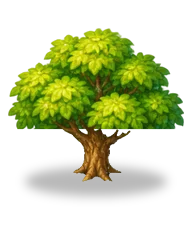
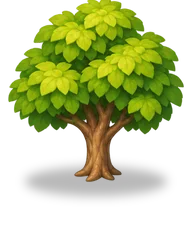
EKOfarm v19

diff --git a/EKOfarm/public/js/assets.js b/EKOfarm/public/js/assets.js
@@ -1,2 +1,2 @@
 // Vygenerováno nástrojem tools/assets.py – seznam grafiky ve hře (public/img/<druh>/<jméno>.webp).
-export const ASSETS = {"b": ["cukrovar", "domek_a", "domek_b", "domek_c", "dzusarna", "fontana", "jablon", "ker", "konzervarna", "kravin", "krmivarna", "kurnik", "kvetiny", "lavicka", "marmeladarna", "medarna", "mlekarna", "mlyn", "olejna", "ovcin", "pekarna", "prasecak", "prodejna", "rybarna", "rybnik", "semenarna", "sklad_1", "sklad_10", "sklad_2", "sklad_3", "sklad_4", "sklad_5", "sklad_6", "sklad_7", "sklad_8", "sklad_9", "skolka", "stanek", "statek_1", "statek_10", "statek_2", "statek_3", "statek_4", "statek_5", "statek_6", "statek_7", "statek_8", "statek_9", "stodola", "textilka", "trziste", "uzenarstvi", "vcelin"], "c": ["beet_0", "beet_1", "beet_2", "carrot_0", "carrot_1", "carrot_2", "cesnek_0", "cesnek_1", "cesnek_2", "cibule_0", "cibule_1", "cibule_2", "corn_0", "corn_1", "corn_2", "dyne_0", "dyne_1", "dyne_2", "hrach_0", "hrach_1", "hrach_2", "jahody_0", "jahody_1", "jahody_2", "meloun_0", "meloun_1", "meloun_2", "okurka_0", "okurka_1", "okurka_2", "paprika_0", "paprika_1", "paprika_2", "potato_0", "potato_1", "potato_2", "rajce_0", "rajce_1", "rajce_2", "redkvicka_0", "redkvicka_1", "redkvicka_2", "repka_0", "repka_1", "repka_2", "salat_0", "salat_1", "salat_2", "soy_0", "soy_1", "soy_2", "sun_0", "sun_1", "sun_2", "wheat_0", "wheat_1", "wheat_2", "zeli_0", "zeli_1", "zeli_2"], "i": ["angrest", "barn", "beet", "bench", "blossom", "boruvky", "broskev", "broskve_sklo", "buchty", "bush", "candat", "candat_maslo", "carrot", "cesnek", "chleb", "cibule", "combine", "corn", "cow", "cukr", "deka", "dyne", "dynovka", "dynovy_olej", "dzem_jahoda", "dzem_malina", "dzem_merunka", "dzus_hruska", "dzus_jablko", "dzus_mrkev", "dzus_visne", "farmer", "flowers", "fountain", "garage", "helper", "hen", "hive", "house", "hrach", "hrachovka", "hrozny", "hruska", "jablko", "jahody", "kapr", "kecup", "klobasa", "klubko", "kolac", "kolecko", "kompot", "krmivo_kravy", "krmivo_ovce", "krmivo_prasata", "krmivo_slepice", "kysane_zeli", "lecho", "lin", "lis", "maliny", "market", "marmelada", "maslo", "maso", "med", "medovnik", "meloun", "merunka", "mleko", "most", "motyka", "mouka", "muffiny", "napoj", "navnada", "okoun", "okurka", "okurky", "olej", "orech", "orechovy_kolac", "paprika", "peceny_lin", "pernik", "pig", "plast", "plot", "plotice", "pluh", "pond", "potato", "povidla", "prazena_seminka", "pstruh", "rajce", "redkvicka", "repka", "rybi_polevka", "rybi_prsty", "rybiz", "s_beet", "s_carrot", "s_cesnek", "s_cibule", "s_corn", "s_dyne", "s_hrach", "s_jahody", "s_meloun", "s_okurka", "s_paprika", "s_potato", "s_rajce", "s_redkvicka", "s_repka", "s_salat", "s_soy", "s_sun", "s_wheat", "s_zeli", "salat", "salat_mix", "secka", "seminkovy_chleb", "sheep", "shop", "sl_olej", "slama", "smazeny_kapr", "smetana", "soy", "stall", "stika", "stika_cibule", "sumcovy_gulas", "sumec", "sun", "svestka", "svetr", "svicka", "syr", "tractor", "tree", "tresne", "tresnovy_kolac", "udice", "udice2", "uzene", "uzeny_pstruh", "vejce", "visne", "vlna", "wheat", "z_angrest", "z_boruvky", "z_broskev", "z_hrusen", "z_jablon", "z_maliny", "z_merunka", "z_orech", "z_reva", "z_rybiz", "z_svestka", "z_tresen", "z_visen", "zeli"], "m": ["brazda120_l", "brazda120_r", "brazda60_l", "brazda60_r", "klas4_l", "klas4_r", "klas8_l", "klas8_r", "lis_l", "lis_r", "pluh_l", "pluh_r", "secka_l", "secka_r"], "p": ["farmar_l", "farmar_r", "pomocnik_l", "pomocnik_r"], "s": ["angrest_dead", "angrest_grow", "angrest_ready", "boruvky_dead", "boruvky_grow", "boruvky_ready", "broskev_dead", "broskev_grow", "broskev_ready", "hrusen_dead", "hrusen_grow", "hrusen_ready", "jablon_dead", "jablon_grow", "jablon_ready", "les_a", "les_b", "les_c", "maliny_dead", "maliny_grow", "maliny_ready", "merunka_dead", "merunka_grow", "merunka_ready", "orech_dead", "orech_grow", "orech_ready", "reva_dead", "reva_grow", "reva_ready", "rybiz_dead", "rybiz_grow", "rybiz_ready", "svestka_dead", "svestka_grow", "svestka_ready", "tresen_dead", "tresen_grow", "tresen_ready", "visen_dead", "visen_grow", "visen_ready"], "t": ["cedule", "cesta_a", "cesta_b", "dlazba", "louka_a", "louka_b", "plot_ne", "plot_se", "pole", "pole_osete", "trava_a", "trava_b"], "z": ["krava", "ovce", "prase", "slepice"]};
+export const ASSETS = {"b": ["cukrovar", "domek_a", "domek_b", "domek_c", "dzusarna", "fontana", "jablon", "ker", "konzervarna", "kravin", "krmivarna", "kurnik", "kvetiny", "lavicka", "marmeladarna", "medarna", "mlekarna", "mlyn", "olejna", "ovcin", "pekarna", "prasecak", "prodejna", "rybarna", "rybnik", "semenarna", "sklad_1", "sklad_10", "sklad_2", "sklad_3", "sklad_4", "sklad_5", "sklad_6", "sklad_7", "sklad_8", "sklad_9", "skolka", "stanek", "statek_1", "statek_10", "statek_2", "statek_3", "statek_4", "statek_5", "statek_6", "statek_7", "statek_8", "statek_9", "stodola", "textilka", "trziste", "uzenarstvi", "vcelin"], "c": ["beet_0", "beet_1", "beet_2", "carrot_0", "carrot_1", "carrot_2", "cesnek_0", "cesnek_1", "cesnek_2", "cibule_0", "cibule_1", "cibule_2", "corn_0", "corn_1", "corn_2", "dyne_0", "dyne_1", "dyne_2", "hrach_0", "hrach_1", "hrach_2", "jahody_0", "jahody_1", "jahody_2", "meloun_0", "meloun_1", "meloun_2", "okurka_0", "okurka_1", "okurka_2", "paprika_0", "paprika_1", "paprika_2", "potato_0", "potato_1", "potato_2", "rajce_0", "rajce_1", "rajce_2", "redkvicka_0", "redkvicka_1", "redkvicka_2", "repka_0", "repka_1", "repka_2", "salat_0", "salat_1", "salat_2", "soy_0", "soy_1", "soy_2", "sun_0", "sun_1", "sun_2", "wheat_0", "wheat_1", "wheat_2", "zeli_0", "zeli_1", "zeli_2"], "i": ["amur", "amur_gril", "angrest", "barn", "beet", "bench", "blossom", "bolen", "bolen_bylinky", "boruvky", "broskev", "broskve_sklo", "buchty", "bush", "candat", "candat_maslo", "carrot", "cejn", "cesnek", "chleb", "cibule", "combine", "corn", "cow", "cukr", "deka", "dyne", "dynovka", "dynovy_olej", "dzem_jahoda", "dzem_malina", "dzem_merunka", "dzus_hruska", "dzus_jablko", "dzus_mrkev", "dzus_visne", "farmer", "flowers", "fountain", "garage", "helper", "hen", "hive", "house", "hrach", "hrachovka", "hrozny", "hruska", "jablko", "jahody", "jeseter", "kapr", "karas", "kecup", "klobasa", "klubko", "kolac", "kolecko", "kompot", "krmivo_kravy", "krmivo_ovce", "krmivo_prasata", "krmivo_slepice", "kysane_zeli", "lecho", "lin", "lis", "maliny", "market", "marmelada", "maslo", "maso", "med", "medovnik", "meloun", "merunka", "mleko", "most", "motyka", "mouka", "muffiny", "napoj", "navnada", "okoun", "okurka", "okurky", "olej", "orech", "orechovy_kolac", "paprika", "peceny_lin", "pernik", "pig", "plast", "plot", "plotice", "pluh", "pond", "potato", "povidla", "prazena_seminka", "pstruh", "rajce", "redkvicka", "repka", "rybi_karbanatky", "rybi_polevka", "rybi_prsty", "rybiz", "s_beet", "s_carrot", "s_cesnek", "s_cibule", "s_corn", "s_dyne", "s_hrach", "s_jahody", "s_meloun", "s_okurka", "s_paprika", "s_potato", "s_rajce", "s_redkvicka", "s_repka", "s_salat", "s_soy", "s_sun", "s_wheat", "s_zeli", "salat", "salat_mix", "secka", "seminkovy_chleb", "sheep", "shop", "sl_olej", "slama", "smazeny_kapr", "smetana", "soy", "stall", "stika", "stika_cibule", "sumcovy_gulas", "sumec", "sun", "svestka", "svetr", "svicka", "syr", "tractor", "tree", "tresne", "tresnovy_kolac", "udice", "udice2", "uhor", "uzene", "uzeny_pstruh", "vejce", "visne", "vlna", "wheat", "z_angrest", "z_boruvky", "z_broskev", "z_hrusen", "z_jablon", "z_maliny", "z_merunka", "z_orech", "z_reva", "z_rybiz", "z_svestka", "z_tresen", "z_visen", "zeli"], "m": ["brazda120_l", "brazda120_r", "brazda60_l", "brazda60_r", "klas4_l", "klas4_r", "klas8_l", "klas8_r", "lis_l", "lis_r", "pluh_l", "pluh_r", "secka_l", "secka_r"], "p": ["farmar_l", "farmar_r", "pomocnik_l", "pomocnik_r"], "s": ["angrest_dead", "angrest_grow", "angrest_ready", "boruvky_dead", "boruvky_grow", "boruvky_ready", "broskev_dead", "broskev_grow", "broskev_ready", "hrusen_dead", "hrusen_grow", "hrusen_ready", "jablon_dead", "jablon_grow", "jablon_ready", "les_a", "les_b", "les_c", "maliny_dead", "maliny_grow", "maliny_ready", "merunka_dead", "merunka_grow", "merunka_ready", "orech_dead", "orech_grow", "orech_ready", "reva_dead", "reva_grow", "reva_ready", "rybiz_dead", "rybiz_grow", "rybiz_ready", "svestka_dead", "svestka_grow", "svestka_ready", "tresen_dead", "tresen_grow", "tresen_ready", "visen_dead", "visen_grow", "visen_ready"], "t": ["cedule", "cesta_a", "cesta_b", "dlazba", "louka_a", "louka_b", "plot_ne", "plot_se", "pole", "pole_osete", "trava_a", "trava_b"], "z": ["krava", "ovce", "prase", "slepice"]};

diff --git a/EKOfarm/public/js/icons.js b/EKOfarm/public/js/icons.js
@@ -1,6 +1,6 @@
 // EKOfarm – ikony: malované předměty z public/img/i (assets.js), zbytek vlastní SVG (UI, nové ryby a jídla).
 // V textu se píšou jako :klic: a funkce iconize() je nahradí obrázkem.
-import { hasAsset, assetUrl } from './sprites.js?v=18';
+import { hasAsset, assetUrl } from './sprites.js?v=19';
 
 const S = (body, bg = '') => `<svg xmlns="http://www.w3.org/2000/svg" viewBox="0 0 32 32">${bg}${body}</svg>`;
 
@@ -39,20 +39,9 @@ export const ICONS = {
   // ---- v10 ----
 };
 
-// ---- v11: ryby, med, rybník, včelín, udice ----
-const fishIc = (c, belly, fin, extra = '', len = 1) => S(`<path d="M${4 + (1 - len) * 6} 16c4-7 ${12 * len} -8 ${19 * len} 0-${7 * len} 8-${15 * len} 7-${19 * len} 0z" fill="${c}"/><path d="M${6 + (1 - len) * 6} 18c5 3 ${11 * len} 3 ${16 * len} -1" stroke="${belly}" stroke-width="2.4" fill="none" stroke-linecap="round"/><path d="M${23 - (1 - len) * 2} 16l7-6v12z" fill="${fin}"/><path d="M13 10l4-4 3 5z" fill="${fin}"/><circle cx="${8 + (1 - len) * 6}" cy="14.5" r="1.6" fill="#2f2a26"/>${extra}`);
 Object.assign(ICONS, {
-  // ---- v15: další ryby, jídla, počasí, chat ----
-  karas: fishIc('#d9b44a', '#f5e0a0', '#b08a2a', '', 0.8),
-  cejn: S('<path d="M5 16c3-8 13-10 18-1-5 9-15 8-18 1z" fill="#b0b8a0"/><path d="M8 18c4 2 10 2 14-1" stroke="#e0e6d8" stroke-width="2" fill="none"/><path d="M22 15l8-6v13z" fill="#8a9480"/><path d="M12 8l5-3 3 5z" fill="#8a9480"/><circle cx="9" cy="14" r="1.4" fill="#2f2a26"/>'),
-  amur: fishIc('#8a9a6a', '#c8d0a8', '#6a7a4a', [11, 15, 19].map(x => `<path d="M${x} 12c1 1 1 3 0 4" stroke="#6a7a4a" stroke-width="1" fill="none"/>`).join('')),
-  uhor: S('<path d="M3 18c4-6 8 2 12-2s8-6 13 0c-4 0-6 3-9 4s-7 4-11 2c-2-1-4-2-5-4z" fill="#5a5a3a"/><path d="M6 19c4 1 9-1 13-3" stroke="#a8a070" stroke-width="1.6" fill="none"/><circle cx="25" cy="16" r="1.2" fill="#2f2a26"/>'),
-  bolen: fishIc('#a0aab8', '#e8edf3', '#7a8494', '<path d="M7 16h3" stroke="#2f2a26" stroke-width="1.6"/>', 0.95),
-  jeseter: S('<path d="M2 16c6-5 16-6 22-2l6-5v14l-6-5c-6 4-16 3-22-2z" fill="#7a8a9a"/>' + [8, 12, 16, 20].map(x => `<path d="M${x} 12l1.5-2 1.5 2z" fill="#dfe6ee"/>`).join('') + '<path d="M2 16l-1 3" stroke="#5a6a7a" stroke-width="1.4"/><circle cx="6" cy="15" r="1" fill="#2f2a26"/>'),
-  rybi_karbanatky: S('<ellipse cx="16" cy="22" rx="14" ry="6" fill="#f3e3c3" stroke="#c9b993"/>' + [[10, 19], [17, 21], [22, 17]].map(([x, y]) => `<ellipse cx="${x}" cy="${y}" rx="5" ry="3.4" fill="#c98a4a"/><ellipse cx="${x - 1}" cy="${y - 1}" rx="2.4" ry="1.2" fill="#e0b070"/>`).join('')),
-  amur_gril: S('<path d="M3 24h26M3 20h26" stroke="#4a4f5a" stroke-width="1.6"/><path d="M5 18c4-6 14-7 19-1-5 6-15 6-19 1z" fill="#a89a5a"/><path d="M24 17l5-3v7z" fill="#8a7a4a"/><path d="M10 15l2 5M15 14l2 6M20 15l2 5" stroke="#4a3a20" stroke-width="1.6"/>'),
+  // ---- v15: jídla bez malované ikony, počasí, chat ----
   uzeny_uhor: S('<path d="M16 2v5" stroke="#7a4e2a" stroke-width="2"/><path d="M16 7c-6 2-8 6-4 9s4 7-2 9c4 2 10 1 12-3s-4-7-2-10 2-4-4-5z" fill="#8a5a2a"/><path d="M14 10c-2 2-1 4 1 5" stroke="#d9a05b" stroke-width="1.4" fill="none"/>'),
-  bolen_bylinky: S('<ellipse cx="16" cy="22" rx="14" ry="6" fill="#f3e3c3" stroke="#c9b993"/><path d="M6 20c4-5 14-6 20-1-6 5-16 5-20 1z" fill="#c8d0dc"/>' + [[10, 17], [15, 16], [20, 17]].map(([x, y]) => `<ellipse cx="${x}" cy="${y}" rx="2" ry="1" fill="#5fae3a" transform="rotate(-30 ${x} ${y})"/>`).join('') + '<rect x="12" y="20" width="6" height="3" rx="1" fill="#f5e07a"/>'),
   kaviar: S('<ellipse cx="16" cy="24" rx="12" ry="4" fill="#9fb7c9"/><path d="M5 14h22v8a11 4 0 01-22 0z" fill="#d9e6ee" stroke="#9fb7c9"/><ellipse cx="16" cy="14" rx="11" ry="3.6" fill="#2f2a26"/>' + [[10, 14], [14, 13], [18, 14], [22, 13], [16, 15]].map(([x, y]) => `<circle cx="${x}" cy="${y}" r="1" fill="#6a6a7a"/>`).join('')),
   w_sun: S('<circle cx="16" cy="16" r="7" fill="#f5c542"/>' + Array.from({ length: 8 }, (_, i) => `<rect x="15" y="2" width="2" height="5" rx="1" fill="#f5a02e" transform="rotate(${i * 45} 16 16)"/>`).join('')),
   w_cloud: S('<circle cx="11" cy="11" r="6" fill="#f5c542"/><path d="M8 26a6 6 0 010-12 8 8 0 0115 2 5 5 0 011 10z" fill="#e9f2f5" stroke="#b8c7d0"/>'),

diff --git a/EKOfarm/public/js/main.js b/EKOfarm/public/js/main.js
@@ -6,17 +6,17 @@ import {
   TREES, TREE_LIST, FREE_PLOTS, treeState, maxOrchards, orchardPrice, countKind,
   MACHINES, MACHINE_LIST, CROP_CATS, runHelper, helperActive, stallOffers, stallLeft, sellPrice, freeMachine, fieldState, objSize, FIELD_MIN, FIELD_MAX, FIELD_CELL_PRICE, maxBigFields,
   TOWN, townAt, townObject, statekLevel, marketMaxPrice, marketBase, FISH, TUTORIAL_DONE, weatherAt, nextWeather, fmtKg, fishSize,
-} from './rules.js?v=18';
-import { preloadAssets, spriteName } from './sprites.js?v=18';
-import { drawScene, screenToCell, cellCenter, fmtTime, groundInfo } from './render.js?v=18';
-import { createBackend, ApiError } from './api.js?v=18';
-import { iconize, ic } from './icons.js?v=18';
-import { NEWS } from './news.js?v=18';
-import { sfx, soundOn, setSound } from './sfx.js?v=18';
-import { pondHtml, hiveHtml, helpHtml, TUTORIAL, marketHtml, claimableQuests, garageHtml, stallHtml, newsHtml, landHtml, tasksHtml, canClaimDaily, claimableAch, shopHtml, buildHtml, statekHtml, orchardHtml, dealerHtml, bigfieldHtml, factoryHtml, penHtml, decoHtml, siloHtml, siloTitle } from './panels.js?v=18';
+} from './rules.js?v=19';
+import { preloadAssets, spriteName } from './sprites.js?v=19';
+import { drawScene, screenToCell, cellCenter, fmtTime, groundInfo } from './render.js?v=19';
+import { createBackend, ApiError } from './api.js?v=19';
+import { iconize, ic } from './icons.js?v=19';
+import { NEWS } from './news.js?v=19';
+import { sfx, soundOn, setSound } from './sfx.js?v=19';
+import { pondHtml, hiveHtml, helpHtml, TUTORIAL, marketHtml, claimableQuests, garageHtml, stallHtml, newsHtml, landHtml, tasksHtml, canClaimDaily, claimableAch, shopHtml, buildHtml, statekHtml, orchardHtml, dealerHtml, bigfieldHtml, factoryHtml, penHtml, decoHtml, siloHtml, siloTitle } from './panels.js?v=19';
 
 const $ = id => document.getElementById(id);
-const APP_VERSION = 18;
+const APP_VERSION = 19;
 
 
 const game = {
@@ -753,7 +753,7 @@ function renderPanel() {
       : d.type === 'garage' ? garageHtml(f, o, now())
       : d.type === 'dealer' ? dealerHtml(f, now(), o)
       : d.type === 'stall' ? stallHtml(f, o, now())
-      : d.type === 'orchard' ? orchardHtml(f, o, now())
+      : d.type === 'orchard' ? orchardHtml(f, o, now(), p.ask)
       : d.type === 'bigfield' ? bigfieldHtml(f, o, now())
       : d.type === 'pond' ? pondHtml(f, o, now())
       : d.type === 'hive' ? hiveHtml(f, o, now())
@@ -802,10 +802,22 @@ $('panelBody').addEventListener('click', e => {
     case 'produce': act({ type: 'produce', id: game.panel.id, recipe: v }); break;
     case 'plantTree': {
       const r = act({ type: 'plantTree', id: game.panel.id, tree: v });
-      if (r.ok) { const o = findObject(f, game.panel.id); floatAt(o.x, o.y, `−${TREES[v].cost} :coin:`); closeSheets(); }
+      if (r.ok) { const o = findObject(f, game.panel.id); floatAt(o.x, o.y, r.sapling ? `−1 :z_${v}:` : `−${TREES[v].cost} :coin:`); closeSheets(); }
       break;
     }
-    case 'clearTree': act({ type: 'clearTree', id: Number(v) }); break;
+    case 'clearAsk': game.panel.ask = true; renderPanel(); break;
+    case 'clearNo': game.panel.ask = false; renderPanel(); break;
+    case 'clearTree': {   // vykopat strom; panel pak rovnou nabídne nový
+      const id = Number(v), r = act({ type: 'clearTree', id, force: true });
+      game.panel.ask = false;
+      if (r.ok) {
+        const o = findObject(f, id), b = r.back;
+        floatAt(o.x, o.y, b && b.item ? `+1 :${b.item}:` : b && b.coins ? `+${b.coins} :coin:` : ':axe: vykopáno');
+        if (b) toast(b.item ? 'Sazenice je zpátky ve skladu. Vyber nový strom.' : 'Mince za sazenici máš zpátky. Vyber nový strom.');
+      }
+      renderPanel();
+      break;
+    }
     case 'ttab': game.panel.tab = v; if (v === 'zebricek') loadBoard(); renderPanel(); break;
     case 'stab': game.panel.tab = v; renderPanel(); break;
     case 'upgrade': {

diff --git a/EKOfarm/public/js/panels.js b/EKOfarm/public/js/panels.js
@@ -7,14 +7,14 @@ import {
   machinePrice, isVehicle, stallOffers, stallLeft, HELPER_PLANS, HELPER_LEVEL, helperActive, helperCapacity, helperInterval, CROP_CATS, getCrop,
   have, hasInputs, countKind, maxPlots, plotPrice, siloUsed, siloUpgradePrice, queueState, animalState,
   CROP_LIST, LEVEL_XP, MAX_LEVEL, plotState,
-  TREES, TREE_LIST, FREE_PLOTS, maxOrchards, orchardPrice, treeState, orderReady, canDeliver,
+  TREES, TREE_LIST, FREE_PLOTS, maxOrchards, orchardPrice, treeState, treeRefund, orderReady, canDeliver,
   LAND_PARCELS, landPrice, landLevel, landReachable,
   DAILY, ACHIEVEMENTS, dayKey, sellPrice, marketMult, nextMarketChange, fieldYield, hasTool,
   MACHINES, MACHINE_LIST, MACHINE_TYPE_NAME, FIELD_CELL_PRICE, FIELD_MIN, FIELD_MAX, CROPS,
   maxBigFields, machineJob, freeMachine, fieldState, jobSeconds, hasMachine,
-} from './rules.js?v=18';
-import { fmtTime } from './render.js?v=18';
-import { NEWS } from './news.js?v=18';
+} from './rules.js?v=19';
+import { fmtTime } from './render.js?v=19';
+import { NEWS } from './news.js?v=19';
 
 const FRUITS_OF = it => !!TREE_LIST.find(t => t.fruit === it.id);
 const esc = s => String(s).replace(/[&<>"]/g, c => ({ '&': '&amp;', '<': '&lt;', '>': '&gt;', '"': '&quot;' }[c]));
@@ -169,7 +169,7 @@ export function helperHtml(farm, now) {
     <p class="muted">${tools}</p><div class="hire">${plans}</div>`;
 }
 
-export function orchardHtml(farm, o, now) {
+export function orchardHtml(farm, o, now, ask) {
   const st = treeState(o, now);
   if (st.state === 'empty') {
     const cards = [...TREE_LIST].sort((a, b) => (a.kind === b.kind ? 0 : a.kind === 'bush' ? -1 : 1) || a.level - b.level).map(t => {
@@ -188,9 +188,22 @@ export function orchardHtml(farm, o, now) {
   else if (st.state === 'ready') txt = `${t.yield}× :${fruit.icon}: je zralé – klepni na strom.`;
   else txt = `:${fruit.icon}: za ${fmtTime(st.left)}`;
   const bar = st.state === 'growing' ? `<div class="bar"><div style="width:${(st.progress * 100).toFixed(1)}%"></div></div>` : '';
+  // živý strom jde vykopat a zasadit jiný; dokud ještě neplodil, vrátí se sazenice nebo mince
+  let dig = '';
+  if (st.state === 'dead') dig = `<button class="btn" data-act="clearTree" data-v="${o.id}">:axe: Vykopat strom</button>`;
+  else if (st.state === 'ready') dig = `<p class="muted">:axe: Strom jde vykopat, až sklidíš zralé ovoce.</p>`;
+  else if (!ask) dig = `<button class="btn alt" data-act="clearAsk" data-v="${o.id}">:axe: Vykopat a zasadit jiný strom</button>`;
+  else {
+    const back = treeRefund(o);
+    const what = !back ? (o.left < t.harvests ? 'Strom už plodil, sazenice se nevrátí.' : 'Sazenice se nevrátí (strom je zasazený ze starší verze hry).')
+      : back.item ? `Sazenice :${back.item}: se ti vrátí do skladu.` : `Vrátí se ti ${back.coins} :coin: za sazenici.`;
+    dig = `<div class="ask"><p><b>Opravdu vykopat ${t.name.toLowerCase()}?</b><br>${what}</p>
+      <div class="ask-btns"><button class="btn warn" data-act="clearTree" data-v="${o.id}">:axe: Ano, vykopat</button>
+      <button class="btn alt" data-act="clearNo">Ne</button></div></div>`;
+  }
   return `<div class="row"><span class="ico">:${fruit.icon}:</span><div class="info"><b>${t.name}</b><small>${txt}</small>${bar}
       <small>Zbývá úrod: ${st.state === 'dead' ? 0 : o.left} z ${t.harvests} · ${fruit.price} :coin: za kus</small></div></div>
-    ${st.state === 'dead' ? `<button class="btn" data-act="clearTree" data-v="${o.id}">:axe: Vykopat strom</button>` : ''}
+    ${dig}
     <button class="btn alt" data-act="move" data-v="${o.id}">↔ Přesunout sad</button>`;
 }
 

diff --git a/EKOfarm/public/js/rules.js b/EKOfarm/public/js/rules.js
@@ -694,6 +694,14 @@ export function orchardPrice(farm) {
 }
 
 // stav stromu v sadu: 'empty' | 'growing' | 'ready' | 'dead'
+// co se vrátí při vykopání živého stromu: jen dokud ještě nedal žádnou úrodu (sazenice do skladu, nebo zaplacené mince)
+export function treeRefund(o) {
+  const t = o.tree && TREES[o.tree];
+  if (!t || o.dead || o.left !== t.harvests) return null;
+  if (o.paid === 'sap') return { item: 'z_' + t.id };
+  if (typeof o.paid === 'number' && o.paid > 0) return { coins: o.paid };
+  return null;
+}
 export function treeState(obj, now) {
   if (!obj.tree) return { state: 'empty', progress: 0, left: 0 };
   if (obj.dead) return { state: 'dead', progress: 1, left: 0 };
@@ -1143,6 +1151,7 @@ export const ERRORS = {
   land_far: 'Nejdřív kup sousední pozemek.',
   wrong_machine: 'Na tuhle plodinu potřebuješ jiný stroj.',
   not_empty_tree: 'V sadu už strom roste.',
+  tree_ready: 'Nejdřív sklid zralé ovoce.',
   no_order: 'Tahle zakázka teď není.',
   missing: 'Na zakázku ti ještě něco chybí.',
 };
@@ -1379,6 +1388,7 @@ export function applyAction(farm, a, now) {
       if (!sap && farm.coins < t.cost) return fail('no_coins');
       if (sap) takeItem(farm, 'z_' + t.id, 1); else farm.coins -= t.cost;
       o.tree = t.id; o.left = t.harvests; o.dead = false; o.readyAt = now + t.first * 1000;
+      o.paid = sap ? 'sap' : t.cost;   // čím se platilo – při vykopání před první úrodou se to vrátí
       return { ok: true, sapling: sap };
     }
     case 'harvestTree': {
@@ -1394,12 +1404,21 @@ export function applyAction(farm, a, now) {
       if (o.left > 0) o.readyAt = now + t.regrow * 1000; else o.dead = true;
       return { ok: true, bees: qty > t.yield, gained: { items: [{ item: t.fruit, qty }], xp: t.xp, levelUp }, dead: o.dead };
     }
-    case 'clearTree': {
+    case 'clearTree': {   // vykopat strom: suchý kdykoli, živý jen na výslovné přání (force) a ne se zralým ovocem
       const o = findObject(farm, a.id);
       if (!o || BUILDINGS[o.kind].type !== 'orchard' || !o.tree) return fail('no_object');
-      if (!o.dead) return fail('not_ready');
-      o.tree = null; o.dead = false; o.readyAt = 0; o.left = 0;
-      return { ok: true };
+      const st = treeState(o, now).state;
+      let back = null;
+      if (st !== 'dead') {
+        if (!a.force) return fail('not_ready');
+        if (st === 'ready') return fail('tree_ready');
+        back = treeRefund(o);
+        if (back && back.item && siloFree(farm) < 1) return fail('silo_full');
+        if (back && back.item) addItem(farm, back.item, 1);
+        if (back && back.coins) farm.coins += back.coins;
+      }
+      o.tree = null; o.dead = false; o.readyAt = 0; o.left = 0; delete o.paid;
+      return { ok: true, back };
     }
     case 'buyMachine': {
       const m = own(MACHINES, a.model);

diff --git a/EKOfarm/test/rules.test.js b/EKOfarm/test/rules.test.js
@@ -276,6 +276,49 @@ test('sad a stromy', () => {
   assert.equal(treeState(o, t).state, 'empty');
 });
 
+test('vykopání živého stromu: vrátí sazenici nebo mince jen před první úrodou', () => {
+  const f = farm6();
+  f.coins = 1000; f.level = 3; f.xp = 25;
+  const id = applyAction(f, { type: 'place', kind: 'sad', x: 0, y: 0 }, T0).id;
+  const o = findObject(f, id);
+  // koupená sazenice (mince) → zpět mince
+  const c0 = f.coins;
+  assert.ok(applyAction(f, { type: 'plantTree', id, tree: 'jablon' }, T0).ok);
+  const cost = c0 - f.coins;
+  assert.ok(cost > 0);
+  assert.equal(applyAction(f, { type: 'clearTree', id }, T0 + 1000).error, 'not_ready', 'bez potvrzení (force) se živý strom nevykope');
+  const r = applyAction(f, { type: 'clearTree', id, force: true }, T0 + 1000);
+  assert.ok(r.ok);
+  assert.deepEqual(r.back, { coins: cost });
+  assert.equal(f.coins, c0, 'mince zpět');
+  assert.equal(treeState(o, T0 + 1000).state, 'empty');
+  // sazenice ze skladu → zpět do skladu, pak jde zasadit jiný strom
+  f.silo.z_jablon = 1;
+  assert.ok(applyAction(f, { type: 'plantTree', id, tree: 'jablon' }, T0).ok);
+  assert.equal(f.silo.z_jablon || 0, 0);
+  assert.deepEqual(applyAction(f, { type: 'clearTree', id, force: true }, T0 + 1000).back, { item: 'z_jablon' });
+  assert.equal(f.silo.z_jablon, 1);
+  // zralé ovoce se musí nejdřív sklidit; po první úrodě se nic nevrací
+  assert.ok(applyAction(f, { type: 'plantTree', id, tree: 'jablon' }, T0).ok);
+  const t = T0 + 1800 * 1000;
+  assert.equal(applyAction(f, { type: 'clearTree', id, force: true }, t).error, 'tree_ready');
+  assert.ok(applyAction(f, { type: 'harvestTree', id }, t).ok);
+  const coins = f.coins, silo = JSON.stringify(f.silo);
+  const r2 = applyAction(f, { type: 'clearTree', id, force: true }, t + 1000);
+  assert.ok(r2.ok);
+  assert.equal(r2.back, null);
+  assert.equal(f.coins, coins); assert.equal(JSON.stringify(f.silo), silo);
+  // strom ze starší verze (bez záznamu o platbě) → vykopat jde, nic se nevrací
+  assert.ok(applyAction(f, { type: 'plantTree', id, tree: 'jablon' }, T0).ok);
+  delete o.paid;
+  assert.equal(applyAction(f, { type: 'clearTree', id, force: true }, T0 + 1000).back, null);
+  // plný sklad: sazenici není kam vrátit
+  f.silo.z_jablon = 1;
+  assert.ok(applyAction(f, { type: 'plantTree', id, tree: 'jablon' }, T0).ok);
+  f.silo.wheat = f.siloCap;
+  assert.equal(applyAction(f, { type: 'clearTree', id, force: true }, T0 + 1000).error, 'silo_full');
+});
+
 test('zakázky: stejné na serveru i v prohlížeči, doručení a zrušení', () => {
   const a = newFarm(T0), b = JSON.parse(JSON.stringify(a));
   assert.equal(a.orders.length, 6);

diff --git a/EKOfarm/public/js/render.js b/EKOfarm/public/js/render.js
@@ -1,8 +1,8 @@
 // EKOfarm – izometrické vykreslování farmy na canvas (dlaždice, pole, plodiny a stromy z obrázků).
-import { GRID_W, GRID_H, CROPS, plotState, objSize, WORLD, LAND_PARCELS, landOwned, landReachable, landPrice, landLevel, TOWN, TOWN_BUILDINGS, TOWN_HOUSES, isRoad, isPlaza, townAt, townObject } from './rules.js?v=18';
-import { drawObject, drawGhost, objectDepth, drawPerson, drawTownHouse, drawCropImg, cropStage } from './objects.js?v=18';
-import { drawIconText, drawIcon } from './icons.js?v=18';
-import { asset } from './sprites.js?v=18';
+import { GRID_W, GRID_H, CROPS, plotState, objSize, WORLD, LAND_PARCELS, landOwned, landReachable, landPrice, landLevel, TOWN, TOWN_BUILDINGS, TOWN_HOUSES, isRoad, isPlaza, townAt, townObject } from './rules.js?v=19';
+import { drawObject, drawGhost, objectDepth, drawPerson, drawTownHouse, drawCropImg, cropStage } from './objects.js?v=19';
+import { drawIconText, drawIcon } from './icons.js?v=19';
+import { asset } from './sprites.js?v=19';
 
 export const TW = 96;   // šířka dlaždice
 export const TH = 48;   // výška dlaždice

diff --git a/EKOfarm/public/js/objects.js b/EKOfarm/public/js/objects.js
@@ -1,8 +1,8 @@
 // EKOfarm – kreslení budov, ohrad, sadu, velkého pole, strojů a lidí z obrázků (public/img).
-import { BUILDINGS, ANIMALS, ITEMS, TREES, CROPS, MACHINES, UPGRADABLE, objectStatus, animalState, queueState, treeState, fieldState, objSize, objLevel, pondStock } from './rules.js?v=18';
-import { TW, TH } from './render.js?v=18';
-import { drawIcon } from './icons.js?v=18';
-import { asset, spriteName, spriteTop, ANIMAL_W } from './sprites.js?v=18';
+import { BUILDINGS, ANIMALS, ITEMS, TREES, CROPS, MACHINES, UPGRADABLE, objectStatus, animalState, queueState, treeState, fieldState, objSize, objLevel, pondStock } from './rules.js?v=19';
+import { TW, TH } from './render.js?v=19';
+import { drawIcon } from './icons.js?v=19';
+import { asset, spriteName, spriteTop, ANIMAL_W } from './sprites.js?v=19';
 
 // izometrický bod pro (i zlomkové) souřadnice mřížky
 function iso(gx, gy) { return [(gx - gy) * TW / 2, (gx + gy) * TH / 2]; }

diff --git a/EKOfarm/public/js/news.js b/EKOfarm/public/js/news.js
@@ -1,5 +1,11 @@
 // EKOfarm – novinky pro hráče (nejnovější nahoře). v = číslo verze.
 export const NEWS = [
+  { v: 19, title: 'Vykopání stromu a nová grafika', items: [
+    'Strom v sadu jde vykopat a zasadit místo něj jiný. Dokud ještě nedal žádnou úrodu, dostaneš sazenici zpátky do skladu (nebo mince, když jsi ji kupoval).',
+    'Sója, hrách a salát mají vlastní obrázky – už nevypadají jako okurka a zelí.',
+    'Lesní stromy jsou celé, i s kmenem.',
+    'Karas, cejn, amur, úhoř, bolen, jeseter, rybí karbanátky, amur na grilu a bolen na bylinkách mají malované ikony.',
+  ] },
   { v: 18, title: 'Oprava spuštění hry', items: [
     'Hra se spustí hned a nečeká na načtení všech obrázků. Dřív se mohla zaseknout na „Načítám farmu…“ a napsat, že se nenačetla.',
     'Když se něco pokazí, hra chybu napíše na obrazovku, aby ji šlo poslat a opravit.',

diff --git a/EKOfarm/public/css/style.css b/EKOfarm/public/css/style.css
@@ -51,6 +51,11 @@ img { -webkit-user-drag: none; -webkit-touch-callout: none; }
 .row .info small { color: #7a6040; display: block; }
 .btn { display: block; width: 100%; padding: 12px; border-radius: 12px; border: 3px solid var(--green-d); background: var(--green); color: #fff; font-weight: 800; font-size: 16px; box-shadow: 0 3px 0 var(--green-d); margin-top: 8px; }
 .btn.alt { background: #fff; color: var(--green-d); }
+.btn.warn { background: #c8452d; border-color: #8e2c1b; }
+.ask { margin: 10px 0; padding: 10px 12px; border-radius: 12px; background: #fff3e8; border: 2px solid #e0a080; }
+.ask p { margin: 0 0 8px; }
+.ask-btns { display: flex; gap: 8px; }
+.ask-btns .btn { margin: 0; }
 .btn.sm { display: inline-block; width: auto; padding: 6px 10px; font-size: 13px; margin: 0 0 0 4px; }
 .muted { color: #7a6040; font-size: 14px; }
 .empty { text-align: center; color: #7a6040; padding: 18px; }

diff --git a/EKOfarm/public/index.html b/EKOfarm/public/index.html
@@ -9,7 +9,7 @@
 <title>EKOfarm</title>
 <link rel="manifest" href="/manifest.webmanifest">
 <link rel="apple-touch-icon" href="/img/icon-192.png">
-<link rel="stylesheet" href="/css/style.css?v=18">
+<link rel="stylesheet" href="/css/style.css?v=19">
 </head>
 <body>
 <!--APP-->
@@ -133,6 +133,6 @@ window.addEventListener('error', function (e) {
 window.addEventListener('unhandledrejection', function (e) { showFatal((e.reason && e.reason.message) || e.reason); });
 window.__ekoFatal = setTimeout(function () { showFatal('Server neodpovídá nebo se hra nenačetla. Zkontroluj připojení.'); }, 15000);
 </script>
-<script type="module" src="/js/main.js?v=18"></script>
+<script type="module" src="/js/main.js?v=19"></script>
 </body>
 </html>

diff --git a/EKOfarm/public/sw.js b/EKOfarm/public/sw.js
@@ -1,5 +1,5 @@
 // EKOfarm – service worker: upozornění do telefonu (Web Push) a mezipaměť obrázků (rychlé načtení podruhé).
-const IMG_CACHE = 'ekofarm-img-v18';   // při nové grafice zvýšit číslo
+const IMG_CACHE = 'ekofarm-img-v19';   // při nové grafice zvýšit číslo
 self.addEventListener('fetch', e => {
   const url = new URL(e.request.url);
   if (e.request.method !== 'GET' || url.origin !== self.location.origin || !url.pathname.startsWith('/img/')) return;
